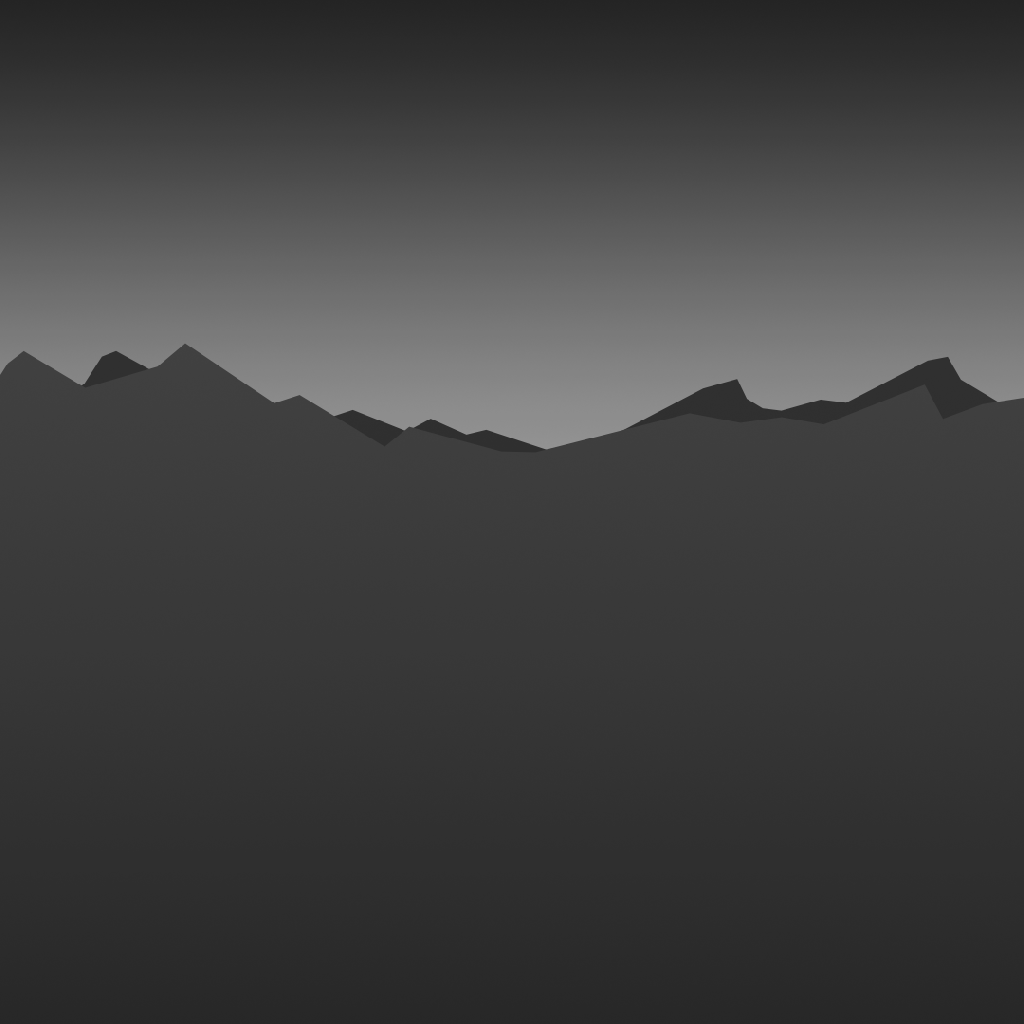
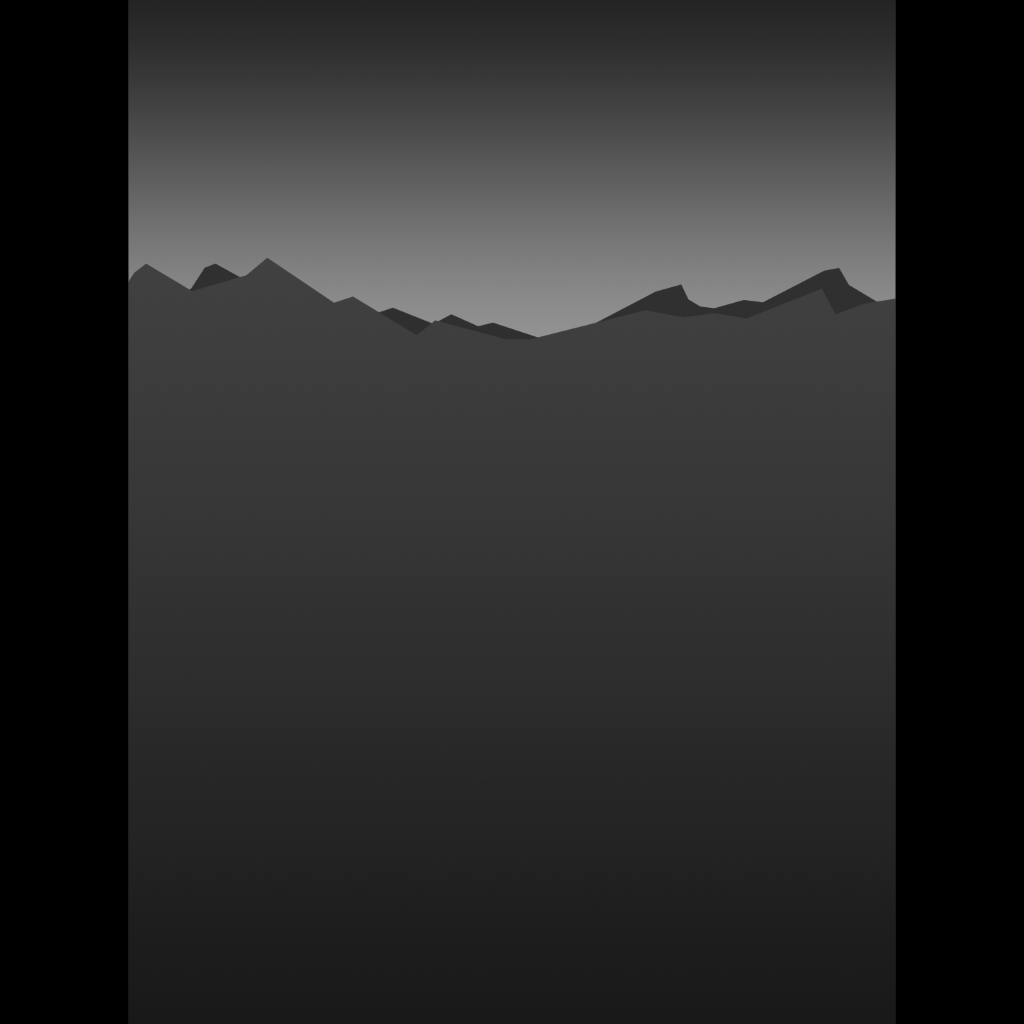
- Fix BG

diff --git a/Assets/GSAction/SCR_Camera.cs b/Assets/GSAction/SCR_Camera.cs
@@ -46,7 +46,7 @@ public class SCR_Camera : MonoBehaviour {
 		GetComponent<Camera>().backgroundColor = color;
 		RenderSettings.fogColor = color;
 		
-		color *= new Vector4(10, 10, 10, 1);
+		color *= new Vector4(5, 5, 5, 1);
 		SPR_Background.GetComponent<SCR_Background>().SetColor (color);
     }
 	
